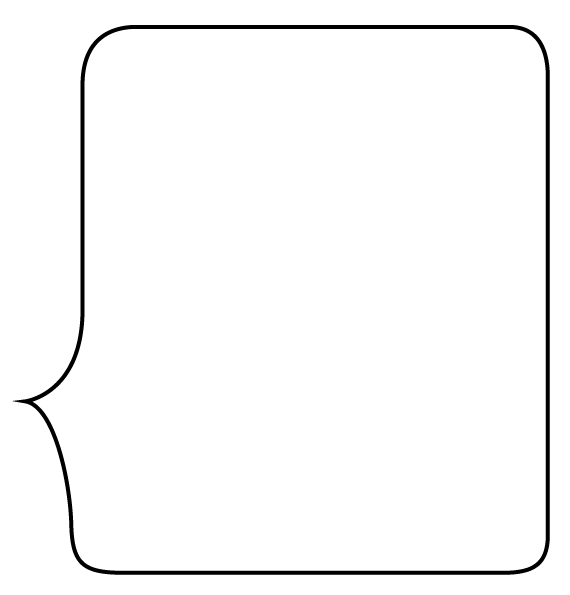
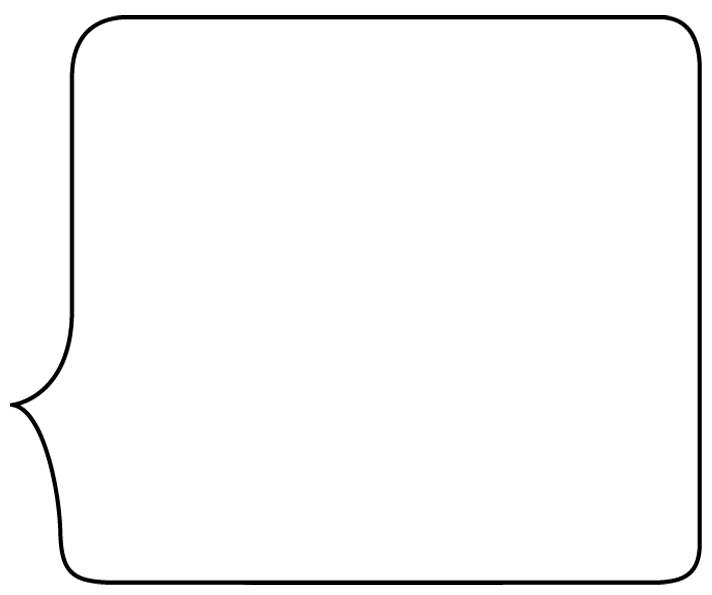
ajustes de tamaño

Changed region(s): [[0.0, 0.0, 1.0, 0.9983]]

diff --git a/Super_Smash_Bros/src/main/java/ec/edu/espol/super_smash_bros/SecondaryController.java b/Super_Smash_Bros/src/main/java/ec/edu/espol/super_smash_bros/SecondaryController.java
@@ -6,6 +6,8 @@ import javafx.animation.TranslateTransition;
 import javafx.fxml.FXML;
 import javafx.fxml.Initializable;
 import javafx.scene.image.ImageView;
+import javafx.scene.layout.AnchorPane;
+import javafx.stage.Screen;
 import javafx.util.Duration;
 
 public class SecondaryController implements Initializable{
@@ -15,6 +17,8 @@ public class SecondaryController implements Initializable{
     private ImageView viñeta;
     @FXML
     private ImageView tortuga;
+    @FXML
+    private AnchorPane anchorPane;
     
     public void setPersonaje(Personaje p){
         this.personaje = p;
@@ -23,6 +27,16 @@ public class SecondaryController implements Initializable{
 
     @Override
     public void initialize(URL url, ResourceBundle rb) {
+        double screenWidth = Screen.getPrimary().getVisualBounds().getWidth();
+        double screenHeight = Screen.getPrimary().getVisualBounds().getHeight();
+
+        // Establece el tamaño del AnchorPane para que coincida con el tamaño de la pantalla
+        anchorPane.setPrefWidth(screenWidth);
+        anchorPane.setPrefHeight(screenHeight);
+        viñeta.fitWidthProperty().bind(anchorPane.widthProperty());
+        viñeta.fitHeightProperty().bind(anchorPane.heightProperty());
+        tortuga.fitWidthProperty().bind(anchorPane.widthProperty());
+        tortuga.fitHeightProperty().bind(anchorPane.heightProperty());
         TranslateTransition translateTransition = new TranslateTransition(Duration.seconds(3), tortuga); // Duración de la animación en segundos
         translateTransition.setFromX(-tortuga.getFitWidth()); // Posición inicial (fuera del área visible a la izquierda)
         translateTransition.setToX(tortuga.getParent().getLayoutBounds().getWidth()); // Posición final (fuera del área visible a la derecha)
